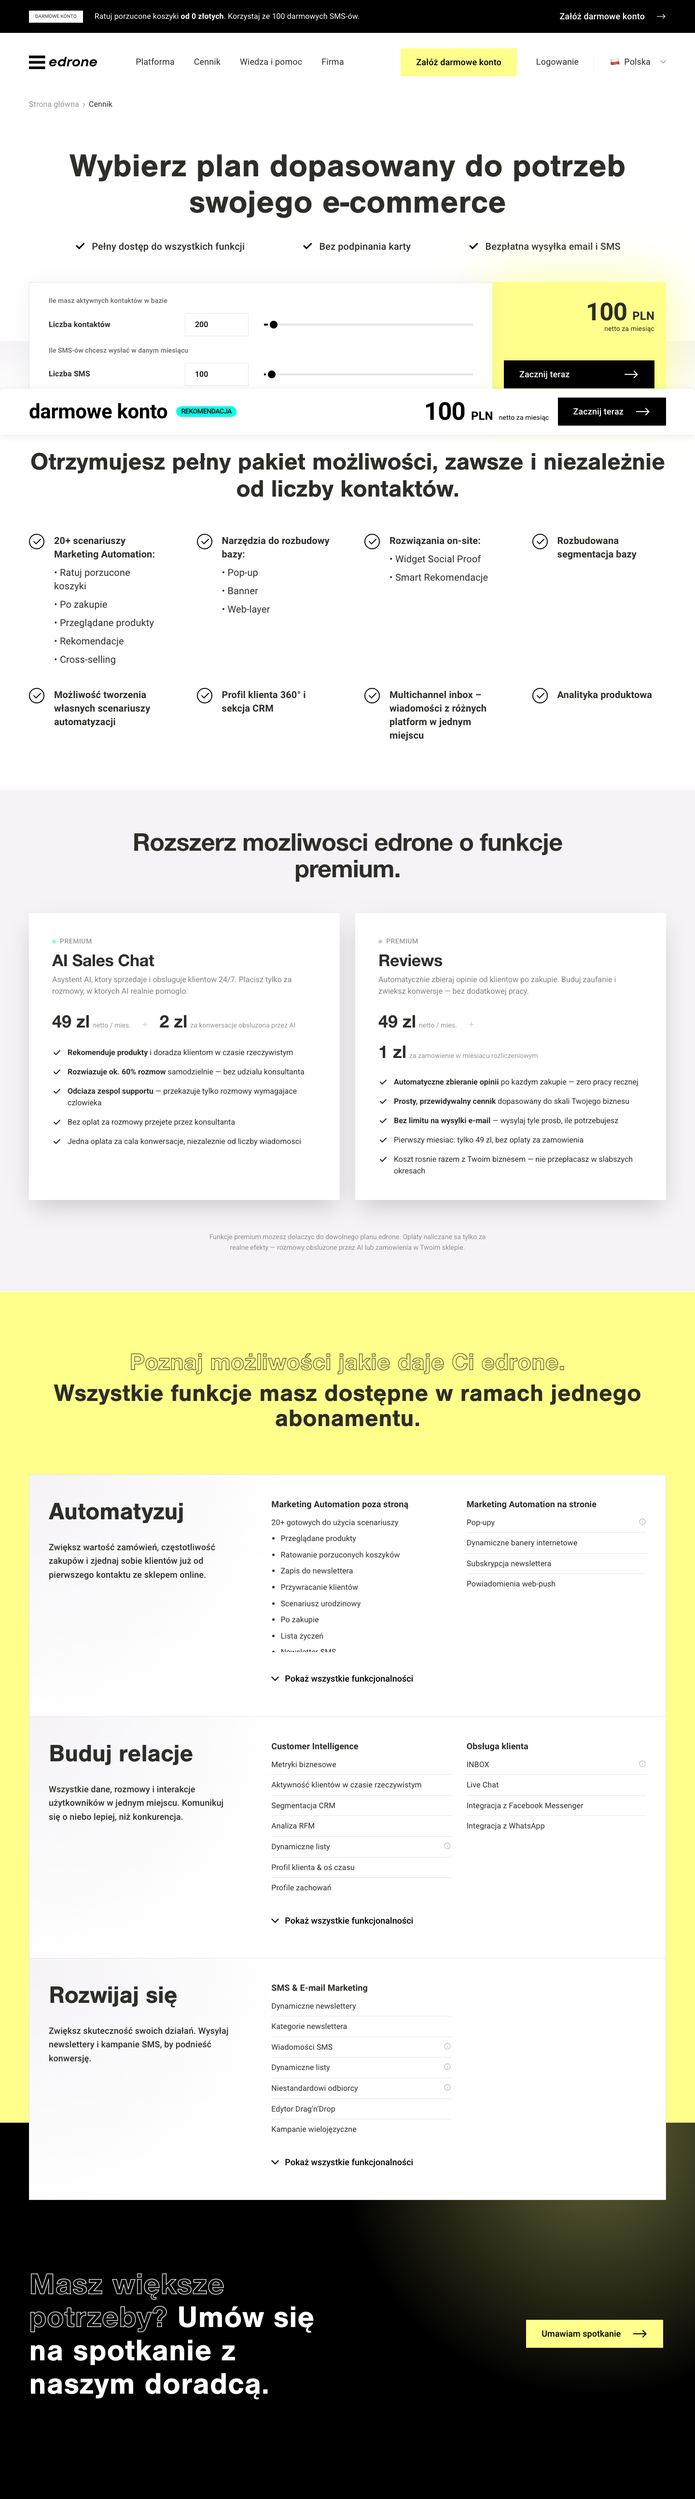
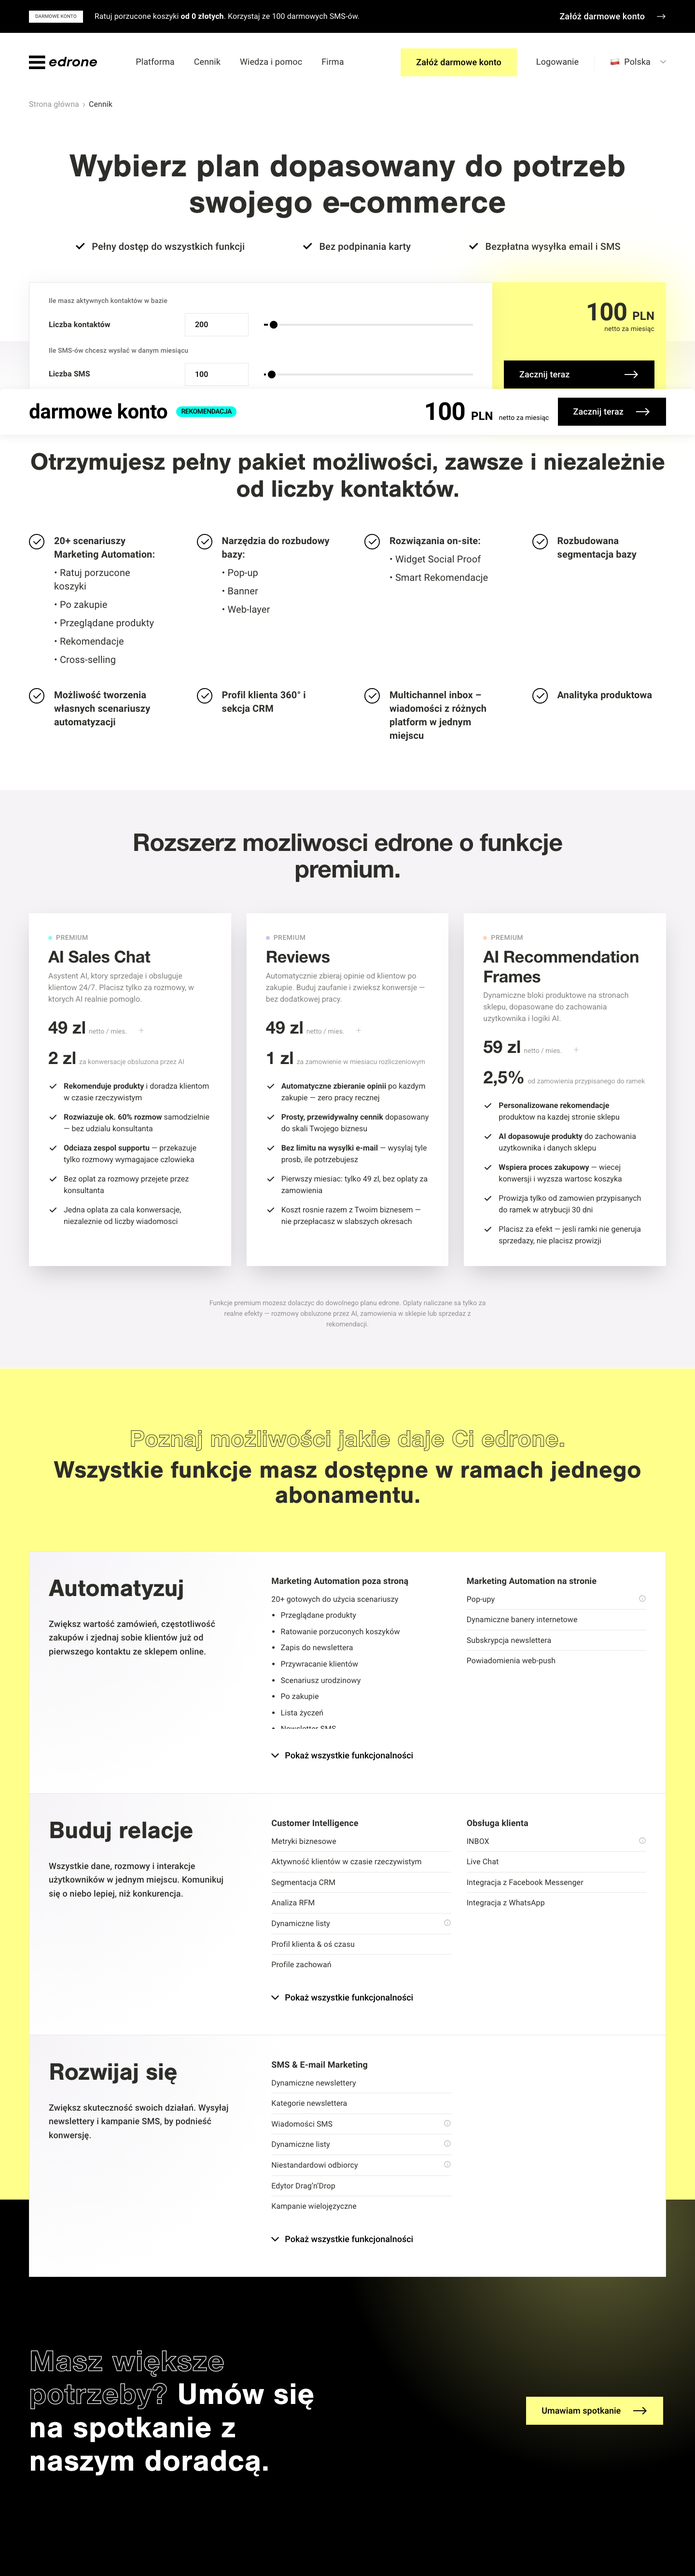
Add AI Recommendation Frames as third premium card
Three premium features in a row:
- AI Sales Chat (49 zl + 2 zl/conversation)
- Reviews (49 zl + 1 zl/order)
- AI Recommendation Frames (59 zl + 2.5% commission)

diff --git a/index.html b/index.html
@@ -17,6 +17,7 @@
             --color-ghostwhite: #F5F3F6;
             --color-turquoise: #00FFE9;
             --color-violet: #AC81DB;
+            --color-orange: #FFA777;
             --color-lightgrey: #E5E5E5;
             --border-radius: 0px;
             --shadow-card: rgba(0, 0, 0, 0.2) 0px 20px 50px -10px;
@@ -389,7 +390,7 @@
 
         .premium-grid {
             display: grid;
-            grid-template-columns: 1fr 1fr;
+            grid-template-columns: repeat(3, 1fr);
             gap: 32px;
             width: 100%;
         }
@@ -398,10 +399,10 @@
             background: var(--color-white);
             border-radius: var(--border-radius);
             box-shadow: var(--shadow-card);
-            padding: 48px;
+            padding: 40px;
             display: flex;
             flex-direction: column;
-            gap: 32px;
+            gap: 28px;
         }
 
         .card-header {
@@ -430,6 +431,7 @@
 
         .card-label-dot--chat { background: var(--color-turquoise); }
         .card-label-dot--reviews { background: var(--color-violet); }
+        .card-label-dot--frames { background: var(--color-orange); }
 
         .card-title {
             font-family: var(--font-heading);
@@ -612,6 +614,10 @@
             .breadcrumbs { padding: 0 32px; }
             .pakiet-grid { grid-template-columns: repeat(2, 1fr); }
             .features-columns { grid-template-columns: 1fr; }
+        }
+
+        @media (max-width: 1100px) {
+            .premium-grid { grid-template-columns: 1fr 1fr; }
         }
 
         @media (max-width: 768px) {
@@ -844,9 +850,53 @@
                 </div>
             </div>
 
+            <!-- AI Recommendation Frames -->
+            <div class="premium-card">
+                <div class="card-header">
+                    <span class="card-label"><span class="card-label-dot card-label-dot--frames"></span> PREMIUM</span>
+                    <h3 class="card-title">AI Recommendation Frames</h3>
+                    <p class="card-desc">Dynamiczne bloki produktowe na stronach sklepu, dopasowane do zachowania uzytkownika i logiki AI.</p>
+                </div>
+
+                <div class="card-pricing">
+                    <div class="price-item">
+                        <span class="price-amount">59 zl</span>
+                        <span class="price-unit">netto / mies.</span>
+                    </div>
+                    <span class="price-plus">+</span>
+                    <div class="price-item">
+                        <span class="price-amount">2,5%</span>
+                        <span class="price-unit">od zamowienia przypisanego do ramek</span>
+                    </div>
+                </div>
+
+                <div class="card-features">
+                    <div class="feature-item">
+                        <svg class="feature-check" viewBox="0 0 20 20" fill="none"><path d="M4 10l4 4 8-8" stroke="currentColor" stroke-width="2.2" stroke-linecap="round" stroke-linejoin="round"/></svg>
+                        <span class="feature-text"><strong>Personalizowane rekomendacje</strong> produktow na kazdej stronie sklepu</span>
+                    </div>
+                    <div class="feature-item">
+                        <svg class="feature-check" viewBox="0 0 20 20" fill="none"><path d="M4 10l4 4 8-8" stroke="currentColor" stroke-width="2.2" stroke-linecap="round" stroke-linejoin="round"/></svg>
+                        <span class="feature-text"><strong>AI dopasowuje produkty</strong> do zachowania uzytkownika i danych sklepu</span>
+                    </div>
+                    <div class="feature-item">
+                        <svg class="feature-check" viewBox="0 0 20 20" fill="none"><path d="M4 10l4 4 8-8" stroke="currentColor" stroke-width="2.2" stroke-linecap="round" stroke-linejoin="round"/></svg>
+                        <span class="feature-text"><strong>Wspiera proces zakupowy</strong> — wiecej konwersji i wyzsza wartosc koszyka</span>
+                    </div>
+                    <div class="feature-item">
+                        <svg class="feature-check" viewBox="0 0 20 20" fill="none"><path d="M4 10l4 4 8-8" stroke="currentColor" stroke-width="2.2" stroke-linecap="round" stroke-linejoin="round"/></svg>
+                        <span class="feature-text">Prowizja tylko od zamowien przypisanych do ramek w atrybucji 30 dni</span>
+                    </div>
+                    <div class="feature-item">
+                        <svg class="feature-check" viewBox="0 0 20 20" fill="none"><path d="M4 10l4 4 8-8" stroke="currentColor" stroke-width="2.2" stroke-linecap="round" stroke-linejoin="round"/></svg>
+                        <span class="feature-text">Placisz za efekt — jesli ramki nie generuja sprzedazy, nie placisz prowizji</span>
+                    </div>
+                </div>
+            </div>
+
         </div>
 
-        <p class="premium-note">Funkcje premium mozesz dolaczyc do dowolnego planu edrone. Oplaty naliczane sa tylko za realne efekty — rozmowy obsluzone przez AI lub zamowienia w Twoim sklepie.</p>
+        <p class="premium-note">Funkcje premium mozesz dolaczyc do dowolnego planu edrone. Oplaty naliczane sa tylko za realne efekty — rozmowy obsluzone przez AI, zamowienia w sklepie lub sprzedaz z rekomendacji.</p>
 
     </div>
 </section>
